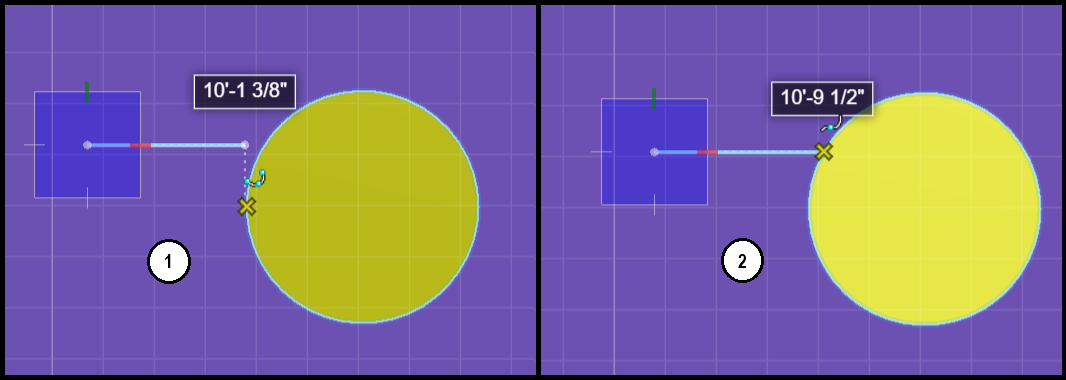
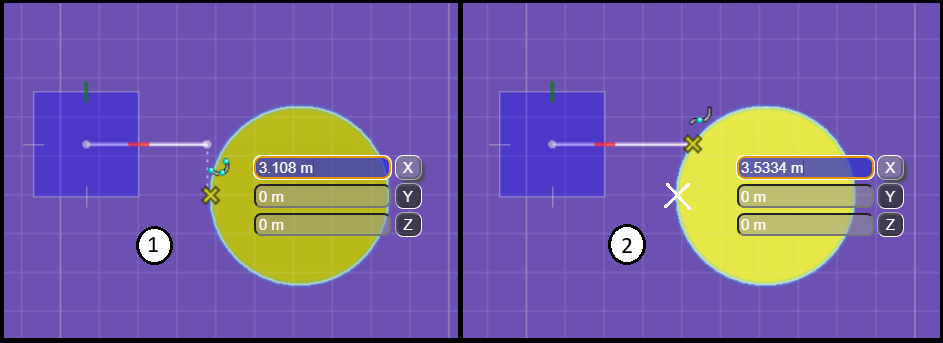
Initial documentation complete. Updated images for nearest snap to show the cursor UI.

diff --git a/docs/learning/frontend/AccuDrawUI.md b/docs/learning/frontend/AccuDrawUI.md
@@ -13,23 +13,24 @@ Applications can choose between a vertical or horizontal layout as well as wheth
 ![accudraw horizontal fixed](./accudraw-horizontal-fixed.png "Horizontal layout with fixed location")
 
 - [AccuDraw User Interface](#accudraw-user-interface)
-  - [Using AccuDraw](#using-accudraw)
+  - [How to Use](#how-to-use)
     - [Explaining Focus](#explaining-focus)
     - [Moving Focus](#moving-focus)
     - [Entering New Value](#entering-new-value)
     - [Accepting New Value](#accepting-new-value)
     - [Choosing a Previous Value](#choosing-a-previous-value)
-    - [AccuDraw and Nearest Snap](#accudraw-and-nearest-snap)
+    - [Nearest Snap Behavior](#nearest-snap-behavior)
   - [Application Support](#application-support)
-    - [Setup](#setup)
-    - [Configuration](#configuration)
+    - [Initial Setup](#initial-setup)
+    - [Configuration Options](#configuration-options)
     - [Keyboard Shortcuts](#keyboard-shortcuts)
+    - [Known Issues](#known-issues)
 
 > NOTE: When referencing shortcuts a description will be used, ex. *Set Origin*, as specific keys and availability is application dependent.
 
-## Using AccuDraw
+## How to Use
 
-AccuDraw supports two modes for coordinate input, polar and rectangular. The current mode can be switched using the *Change Mode* shortcut.
+AccuDraw supports two modes for coordinate input, Polar and Rectangular. The current mode can be switched using the *Change Mode* shortcut.
 
 > Polar Mode:
 
@@ -79,23 +80,23 @@ In order to effectively use AccuDraw it is important to first understand input f
 When AccuDraw has input focus, the following keys will move focus:
 
 - Escape to move focus to Home.
-- Tab or Down Arrow to move focus to the next input field.
-- Shift+Tab or Up Arrow to move focus to the previous input field.
+- Tab (Down Arrow) to move focus to the next input field.
+- Shift+Tab (Up Arrow) to move focus to the previous input field.
 
-In Rectangular mode when neither X or Y is locked, focus automatically moves between them based on the closest axis to the cursor position. This pairs well with *Smart lock* and facilitates entering values more quickly as it eliminates the need to check the current compass orientation before choosing *Lock X* or *Lock Y*.
+In Rectangular mode when neither X or Y is locked, focus automatically moves between them based on the closest axis to the cursor position. This pairs well with the *Smart lock* shortcut and facilitates entering values more quickly as it eliminates the need to check the current compass orientation before choosing between the *Lock X* or *Lock Y* shortcuts.
 
-![accudraw auto focus xy](./accudraw-focus-xy.png "Showing automatic X/Y focs")
+![accudraw auto focus xy](./accudraw-focus-xy.png "Showing automatic X/Y focus")
 
 1. Cursor closer to X axis (red), focus moved to X input field.
 2. Cursor closer to Y axis (green), focus moved to Y input field.
 
 AccuDraw keyboard shortcuts can also be used to move focus.
 
-- *Lock Distance* Change mode to Polar, toggle Distance lock.
-- *Lock Angle* Change mode to Polar, toggle Angle lock.
-- *Lock X* Change mode to Rectangular, toggle X lock, if locked focus Y otherwise focus closest axis.
-- *Lock Y* Change mode to Rectangular. toggle Y lock, if locked focus X otherwise focus closest axis.
-- *Lock Z* Set focus to Z input field, toggle Z lock.
+- *Lock Distance* - Change mode to Polar, toggle Distance lock, if locked focus Distance field.
+- *Lock Angle* - Change mode to Polar, toggle Angle lock. if locked focus Angle field.
+- *Lock X* - Change mode to Rectangular, toggle X lock, if locked focus Y otherwise focus closest axis.
+- *Lock Y* - Change mode to Rectangular. toggle Y lock, if locked focus X otherwise focus closest axis.
+- *Lock Z* - Set focus to Z input field, toggle Z lock.
 
 ### Entering New Value
 
@@ -103,7 +104,7 @@ New input will either replace or insert based on whether the text insertion curs
 
 ![accudraw text cursor](./accudraw-text-cursor.png "Showing input field with and without text insertion cursor")
 
-1. New input replaces the current value (text insertion cursor shown/positioned at end).
+1. New input replaces the current value (text insertion cursor is positioned at end afterwards).
 2. New input inserted at location of text insertion cursor.
 
 The location of the text insertion cursor can be managed with the standard keys.
@@ -114,29 +115,50 @@ The location of the text insertion cursor can be managed with the standard keys.
 - Backspace to delete character before text insertion cursor.
 - Delete to delete character after text insertion cursor.
 
-Letters treated as potential shortcut. Exception N S E W when angle field and bearing direction.
+Letter input is treated as a potential shortcut key. The exception is when focus is on the Angle field and it is set to show bearing directions. In this case "N", "S", "E", and "W" are accepted and will prevent any shortcut that starts with these characters from being used.
+
+> When defining shortcuts, it is recommended to avoid starting with "N", "S", "E", or "W". Using "Escape" to move focus to Home before using the shortcut is also an option.
+
+When a non-letter key is pressed the value of the currently focused field is replaced and its value locked. As you continue to type, intermediate results are previewed by the active tool using the adjusted point location. The current value is not formatted until accepted.
+
+![accudraw new input](./accudraw-new-input.png "Showing a distance being entered")
+
+1. Distance field is unlocked and has focus showing a dynamic distance from the compass origin to the cursor.
+2. After "4" is pressed, it replaces the current value, locks the field, and adjusts the current point.
+3. Additional keys are pressed changing the current value to "4.5" and adjusting the current point.
+
+> When entering angles and directions, the "^" and ";" keys will be replaced by "°" for easier entry.
 
 ### Accepting New Value
 
-Enter - accept current value, don't move focus
-Tab, Shift+Tab, Down Arrow, Up Arrow to move focus
-Data point (left mouse button)
+After entering a new value it can be accepted as follows:
+
+- Enter - Accepts current value. Does not move focus in Polar mode, Rectangular mode automatically changes focus between X and Y.
+- Tab (Down Arrow), Shift+Tab (Up Arrow) - Accepts current value. Move focus to next or previous input field.
+- Data point (Left Mouse Button) - Accepts current value. Does not move focus.
+
+Once a value is accepted, it is processed by the active formatter for that field and the displayed value is updated with the formatted value.
 
 ### Choosing a Previous Value
 
-A history of the last few distance and angle values is automatically created from locked/accepted input fields.
+A history of the last few distance and angle values is automatically created from locked/accepted input fields when using AccuDraw. Saved values from history can be used as follows:
 
-page up/shift+up arrow - current value set to saved value (initially last used), saved position set to previous.
-page down/shift+down arrow - current value to saved value (initially last used), saved position set next.
+- Distance Indexing - Move the cursor near to the previous Polar distance or Rectangular X/Y delta.
+- Page Up (Shift+Up Arrow) - set and lock the previous value while cycling backwards through history.
+- Page Down (Shift+Down Arrow) - set and lock the previous value while cycling forwards through history.
 
 In the example below, segments have been drawn with lengths 1m, 2m, and 3m.
 
 ![accudraw saved values](./accudraw-saved-values.png "Using saved distances")
 
-- Repeatedly using Page Up sets the current value to 3m, 2m, 1m, back to 3m, and repeat.
-- Repeatedly using Page Down sets the current value to 3m, 1m, 2m, back to 3m, and repeat.
+1. With the cursor close to the previous distance of 3m, the indexing tick mark appears and the current point is adjusted to the previous value.
+   - To disable distance (and/or axis) indexing for the next point, the *Lock Index* shortcut can be used with the cursor at a location where the undesirable indexing is NOT active.
+   - Conversely, using *Lock Index* with indexing active, locks the appropriate fields.
+2. Using Page Up/Page Down set and locked the previous distance of 3m.
+   - Repeatedly using Page Up will set the current value to 3m, 2m, 1m, and repeat.
+   - Repeatedly using Page Down will set the current current value to 3m, 1m, 2m, and repeat.
 
-### AccuDraw and Nearest Snap
+### Nearest Snap Behavior
 
 You can combine AccuDraw's distance and axis locks with [SnapMode.Nearest]($frontend) to adjust the current point to the intersection with the snapped geometry.
 
@@ -152,24 +174,42 @@ You can combine AccuDraw's distance and axis locks with [SnapMode.Nearest]($fron
 
 ## Application Support
 
-### Setup
+### Initial Setup
 
-Setting IModelAppOptions.accuDraw...
+In order to begin using [AccuDrawViewportUI]($frontend) in your application it needs to be set to [IModelAppOptions.accuDraw]($frontend) during startup.
 
-### Configuration
+```ts
+iModelApp: {
+  accuDraw: new AccuDrawViewportUI(),
+},
+```
 
-Setting UI options, follow cursor, or fixed horizontal, etc.
+### Configuration Options
 
+By default [AccuDrawViewportUI]($frontend) uses a vertical layout that follows the cursor. Applications that wish to use the fixed horizontal layout can call [AccuDrawViewportUI.setHorizontalFixedLayout]($frontend).
+
+```ts
 function createAccuDrawUI(): AccuDraw {
   const accuDraw = new AccuDrawViewportUI();
   accuDraw.setHorizontalFixedLayout();
+  // NOTE: Set any other non-default options here...
   return accuDraw;
 }
+iModelApp: {
+  accuDraw: createAccuDrawUI(),
+},
+```
 
-accuDraw: createAccuDrawUI(),
+For applications that wish to include a settings dialog for the user, a helper method [AccuDrawViewportUI.refreshControls]($frontend) is provided which will update the currently displayed controls after changes have been made to settings.
 
 ### Keyboard Shortcuts
 
-ToolAdmin.processShortcutKey
+When AccuDraw has input focus and does not handle a KeyboardEvent, the event will be propagated first to the active interactive tool, and then to [ToolAdmin.processShortcutKey]($frontend). This is where applications should test for and run their desired keyboard shortcuts.
 
-appui caveat...
+> NOTE: When using keyboard shortcuts from the appui package, it currently requires focus on Home and as such will not work out of the box with [AccuDrawViewportUI]($frontend) when AccuDraw has inpur focus. To work around this limitation in the appui package, refer to the documentation for [AccuDrawViewportUI.doProcessUnhandledKey]($frontend).
+
+### Known Issues
+
+There is currently a conflict when using the cursor layout with the option to show the tool assistance prompt at the cursor, they overlap. For now it is recommended that you disable the cursor prompt when testing the AccuDraw cursor UI.
+
+Additional testing is required for touch input. Currently the touch cursor and AccuDraw cursor Ui don't interfere with each other, but more work needs to be done to evaluate if the cursor UI can have any benefit for touch input or should always be disabled.
